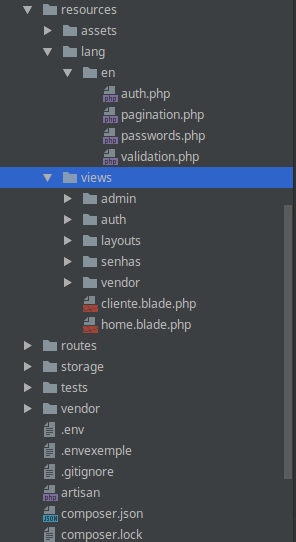
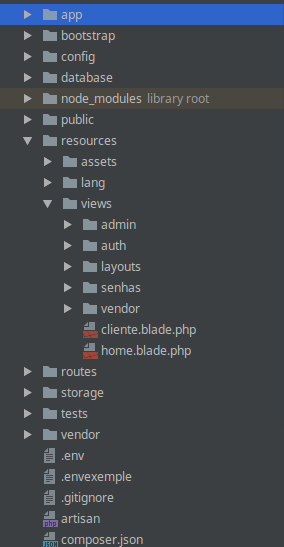
Finalizando o slide da apresentação

Changed region(s): [[0.0, 0.0, 1.0, 1.0], [0.0845, 0.6199, 0.1127, 0.797], [0.9859, 0.1476, 1.0, 0.2066]]

diff --git a/laravel/index.html b/laravel/index.html
@@ -47,15 +47,19 @@
 					</p>
 					<a href=""><img id="logo-evento" src="img/logo.png" /></a>
 				</section>
+
 				<!-- Sumário -->
 				<section>
 					<h2>Roteiro de apresentação</h2>
 					<ol>
 						<li>
+							Introdução ao Framework
+						</li>
+						<li>
 							Instalar e configurar o Laravel
 						</li>
 						<li>
-							Estrutura do framework
+							Estrutura de pastas
 						</li>
 						<li>
 							Sistema de Login
@@ -65,7 +69,20 @@
 						</li>
 					</ol>
 				</section>
+
 				<!-- 1 parte -->
+				<section>
+					<section>
+						<h2>Introdução ao Framework</h2>
+						<div class="row">
+							<img src="img/mvc.png"/>
+							<img src="img/php.png"/>
+						</div>
+					</section>
+				</section>
+
+
+				<!-- 2 parte -->
 				<section>
 					<section>
 						<h2>Como configurar o Laravel?</h2>
@@ -110,6 +127,54 @@
 					</section>
 				</section>
 
+				<!-- 3 parte -->
+				<section>
+					<section>
+						<h2>Estrutura de pastas do Framework</h2>
+					</section>
+					<section>
+						<div class="row">
+							<div class="col-md-3">
+									<a href=""><img id="estrutura-pasta" src="img/arquitetura.png" /></a>
+							</div>
+							<div class="col-md-3">
+								<a href=""><img id="estrutura-pasta" src="img/arquitetura02.png" /></a>
+							</div>
+							<div class="col-md-3">
+								<a href=""><img id="estrutura-pasta" src="img/arquitetura03.png" /></a>
+							</div>
+							<div class="col-md-3">
+								<a href=""><img id="estrutura-pasta" src="img/arquitetura04.png" /></a>
+							</div>
+						</div>
+					</section>
+				</section>
+
+				<!-- 4 parte -->
+				<section>
+					<section>
+						<h2>Sistema de Login</h2>
+					</section>
+					<section>
+						<img src="img/login.png"/>
+					</section>
+				</section>
+
+				<!-- 4 parte -->
+				<section>
+					<section>
+						<h2>Implementando um CRUD</h2>
+						<small>Link do projeto base: https://goo.gl/77sppx</small>
+					</section>
+				</section>
+
+				<!-- Final -->
+				<section>
+					<h2>Alguma dúvida?</h2>
+					<div class="frase-final">
+						<h3 class="fragment">Obrigado!</h3>
+					</div>
+				</section>
 
 		<script src="lib/js/head.min.js"></script>
 		<script src="js/reveal.js"></script>
